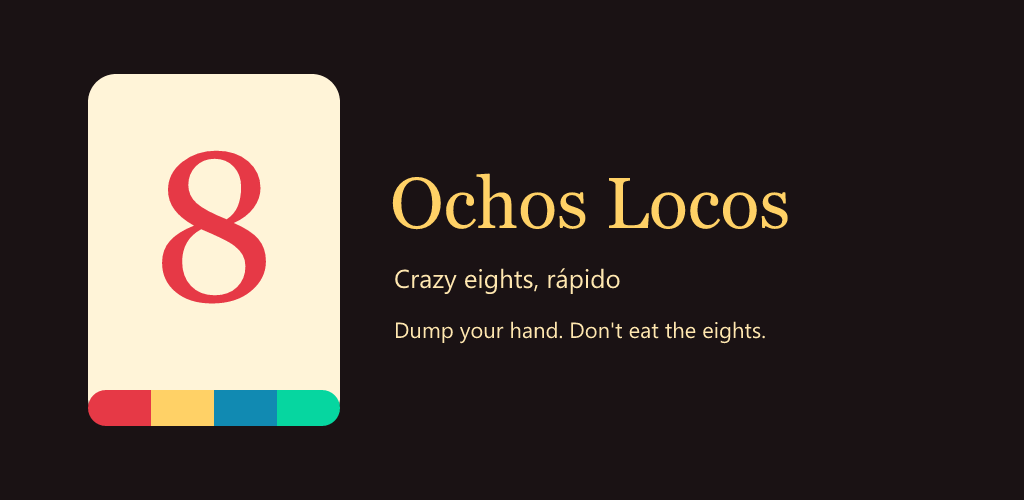
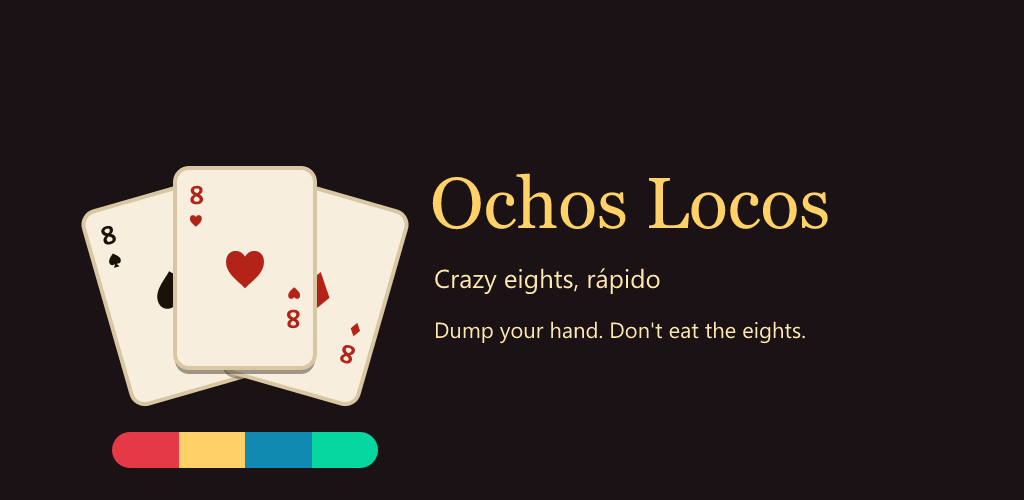
ochos locos and word inspector updates

Changed region(s): [[0.0625, 0.15, 0.8125, 0.96]]

diff --git a/games/index.html b/games/index.html
@@ -62,13 +62,13 @@
         </article>
 
         <article class="game" id="ochos-locos">
-          <img class="banner" src="/graphics/ochos.png" alt="Ochos Locos, crazy eights" />
+          <img class="banner" src="/graphics/ochos.png?v=2" alt="Ochos Locos. Crazy eights, rápido. Dump your hand. Don’t eat the eights." />
           <div class="game-body">
             <div class="game-copy">
-              <img src="/icons/ochos.svg" alt="" />
+              <img src="/icons/ochos.png" alt="" />
               <div>
                 <h2><a href="/games/ochos-locos/">Ochos Locos</a></h2>
-                <p>Match the suit, drop an eight, and race to clear your hand.</p>
+                <p>Crazy eights, rápido. Dump your hand. Don’t eat the eights.</p>
               </div>
             </div>
             <div class="actions">
@@ -198,10 +198,10 @@
         </article>
 
         <article class="game" id="word-inspector">
-          <img class="banner" src="/graphics/wordinspector.png" alt="Word Inspector. Hide a word. Ask for letters." />
+          <img class="banner" src="/graphics/wordinspector.png?v=2" alt="Word Inspector. Hide a word. Ask for letters." />
           <div class="game-body">
             <div class="game-copy">
-              <img src="/icons/wordinspector.svg" alt="" />
+              <img src="/icons/wordinspector.png" alt="" />
               <div>
                 <h2><a href="/games/word-inspector/">Word Inspector</a></h2>
                 <p>Hide a secret word, ask for letters, and outscore the table.</p>

diff --git a/games/ochos-locos/index.html b/games/ochos-locos/index.html
@@ -19,8 +19,8 @@
     <main class="sheet" id="content">
       <p class="crumb"><a href="/games/">Games</a></p>
       <h1>Ochos Locos</h1>
-      <img class="banner" src="/graphics/ochos.png" alt="Ochos Locos, crazy eights" />
-      <p>Match the suit, drop an eight, and race to clear your hand.</p>
+      <img class="banner" src="/graphics/ochos.png?v=2" alt="Ochos Locos. Crazy eights, rápido. Dump your hand. Don’t eat the eights." />
+      <p>Crazy eights, rápido. Dump your hand. Don’t eat the eights.</p>
       <div class="actions">
         <a class="play" target="_blank" rel="noopener noreferrer" href="https://ochoslocos.tamakitech.com/">Play on the web</a>
         <a class="store" href="https://play.google.com/store/apps/details?id=com.tamakitech.ochoslocos" target="_blank" rel="noopener noreferrer">Google Play</a>

diff --git a/index.html b/index.html
@@ -44,8 +44,8 @@
         </li>
         <li>
           <a href="/games/ochos-locos/">
-            <img src="/icons/ochos.svg" alt="" />
-            <span><strong>Ochos Locos</strong>Match the suit, drop an eight, and race to clear your hand.</span>
+            <img src="/icons/ochos.png" alt="" />
+            <span><strong>Ochos Locos</strong>Crazy eights, rápido. Dump your hand. Don’t eat the eights.</span>
           </a>
         </li>
         <li>
@@ -92,7 +92,7 @@
         </li>
         <li>
           <a href="/games/word-inspector/">
-            <img src="/icons/wordinspector.svg" alt="" />
+            <img src="/icons/wordinspector.png" alt="" />
             <span><strong>Word Inspector</strong>Hide a secret word, ask for letters, and outscore the table.</span>
           </a>
         </li>

diff --git a/games/word-inspector/index.html b/games/word-inspector/index.html
@@ -19,7 +19,7 @@
     <main class="sheet" id="content">
       <p class="crumb"><a href="/games/">Games</a></p>
       <h1>Word Inspector</h1>
-      <img class="banner" src="/graphics/wordinspector.png" alt="Word Inspector. Hide a word. Ask for letters." />
+      <img class="banner" src="/graphics/wordinspector.png?v=2" alt="Word Inspector. Hide a word. Ask for letters." />
       <p>Hide a secret word, ask for letters, and outscore the table.</p>
       <div class="actions">
         <a class="play" target="_blank" rel="noopener noreferrer" href="https://wordinspector.tamakitech.com/">Play on the web</a>
